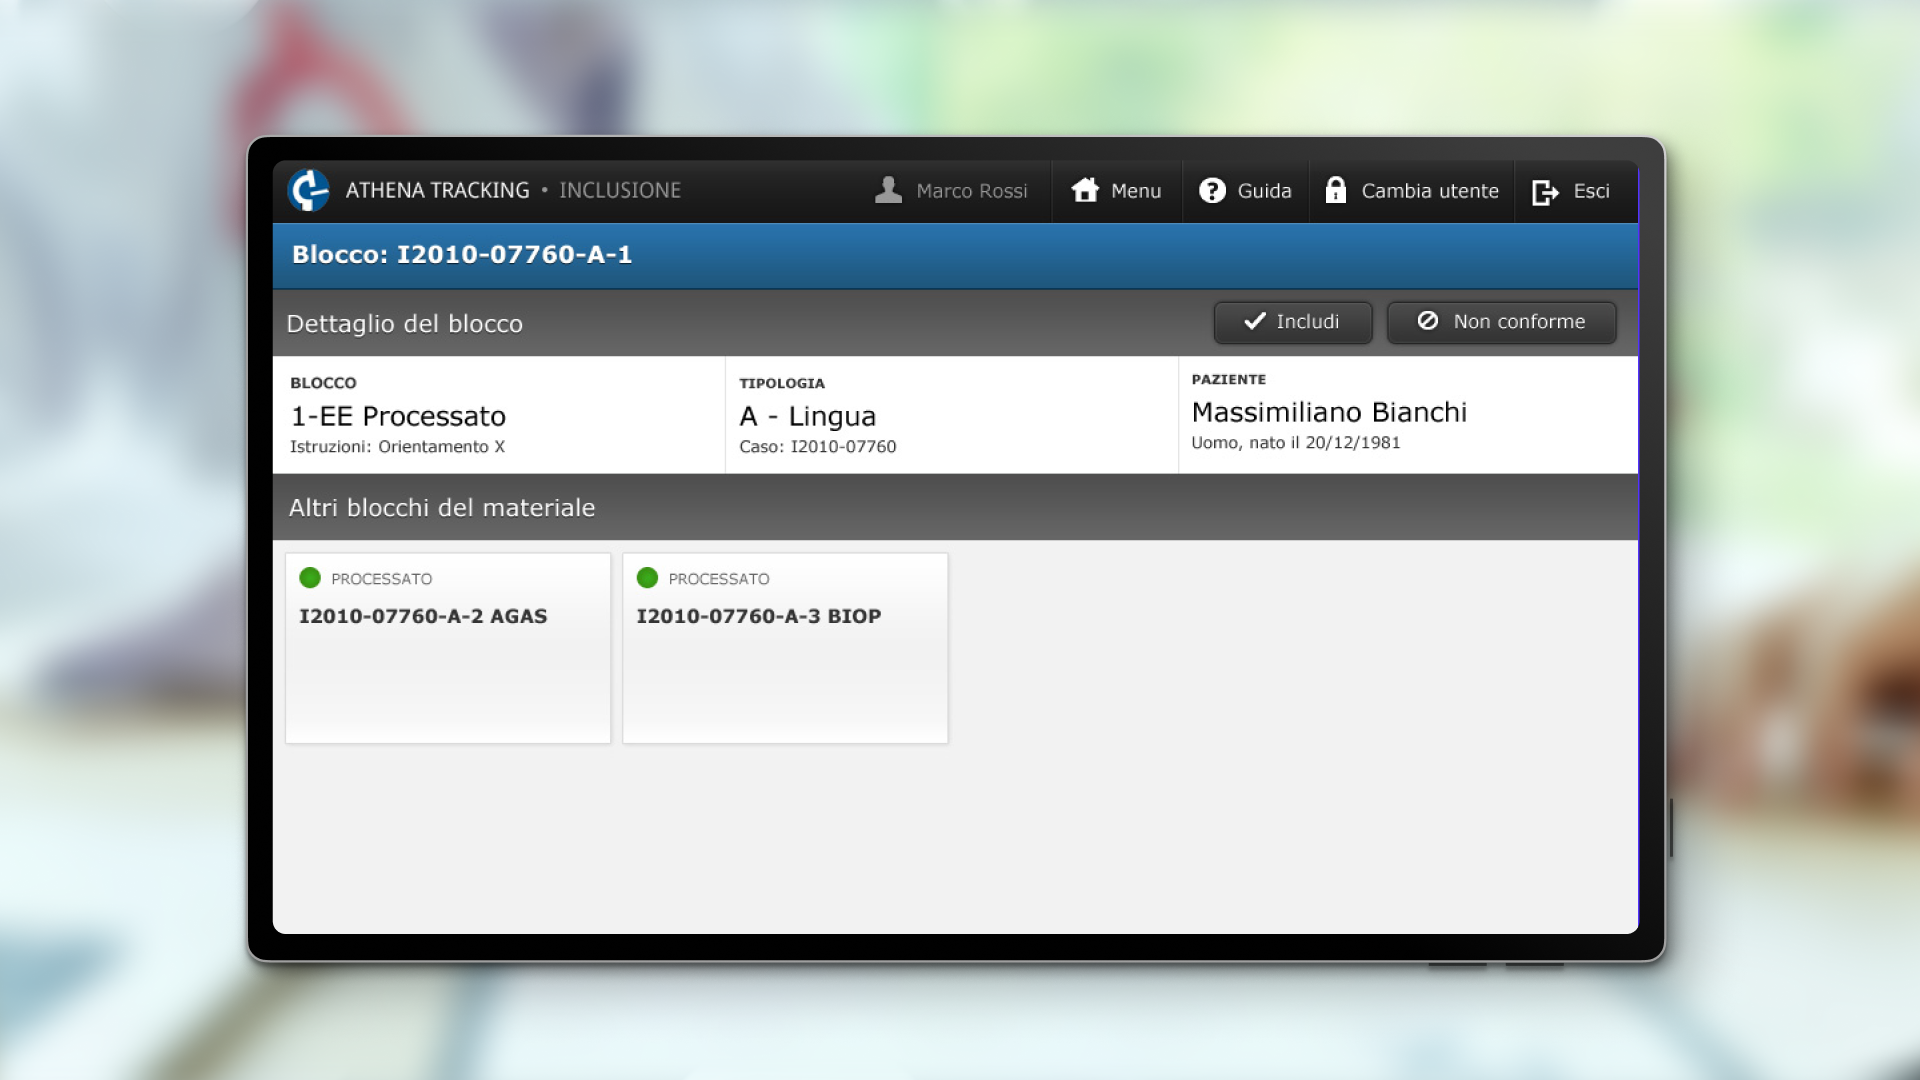
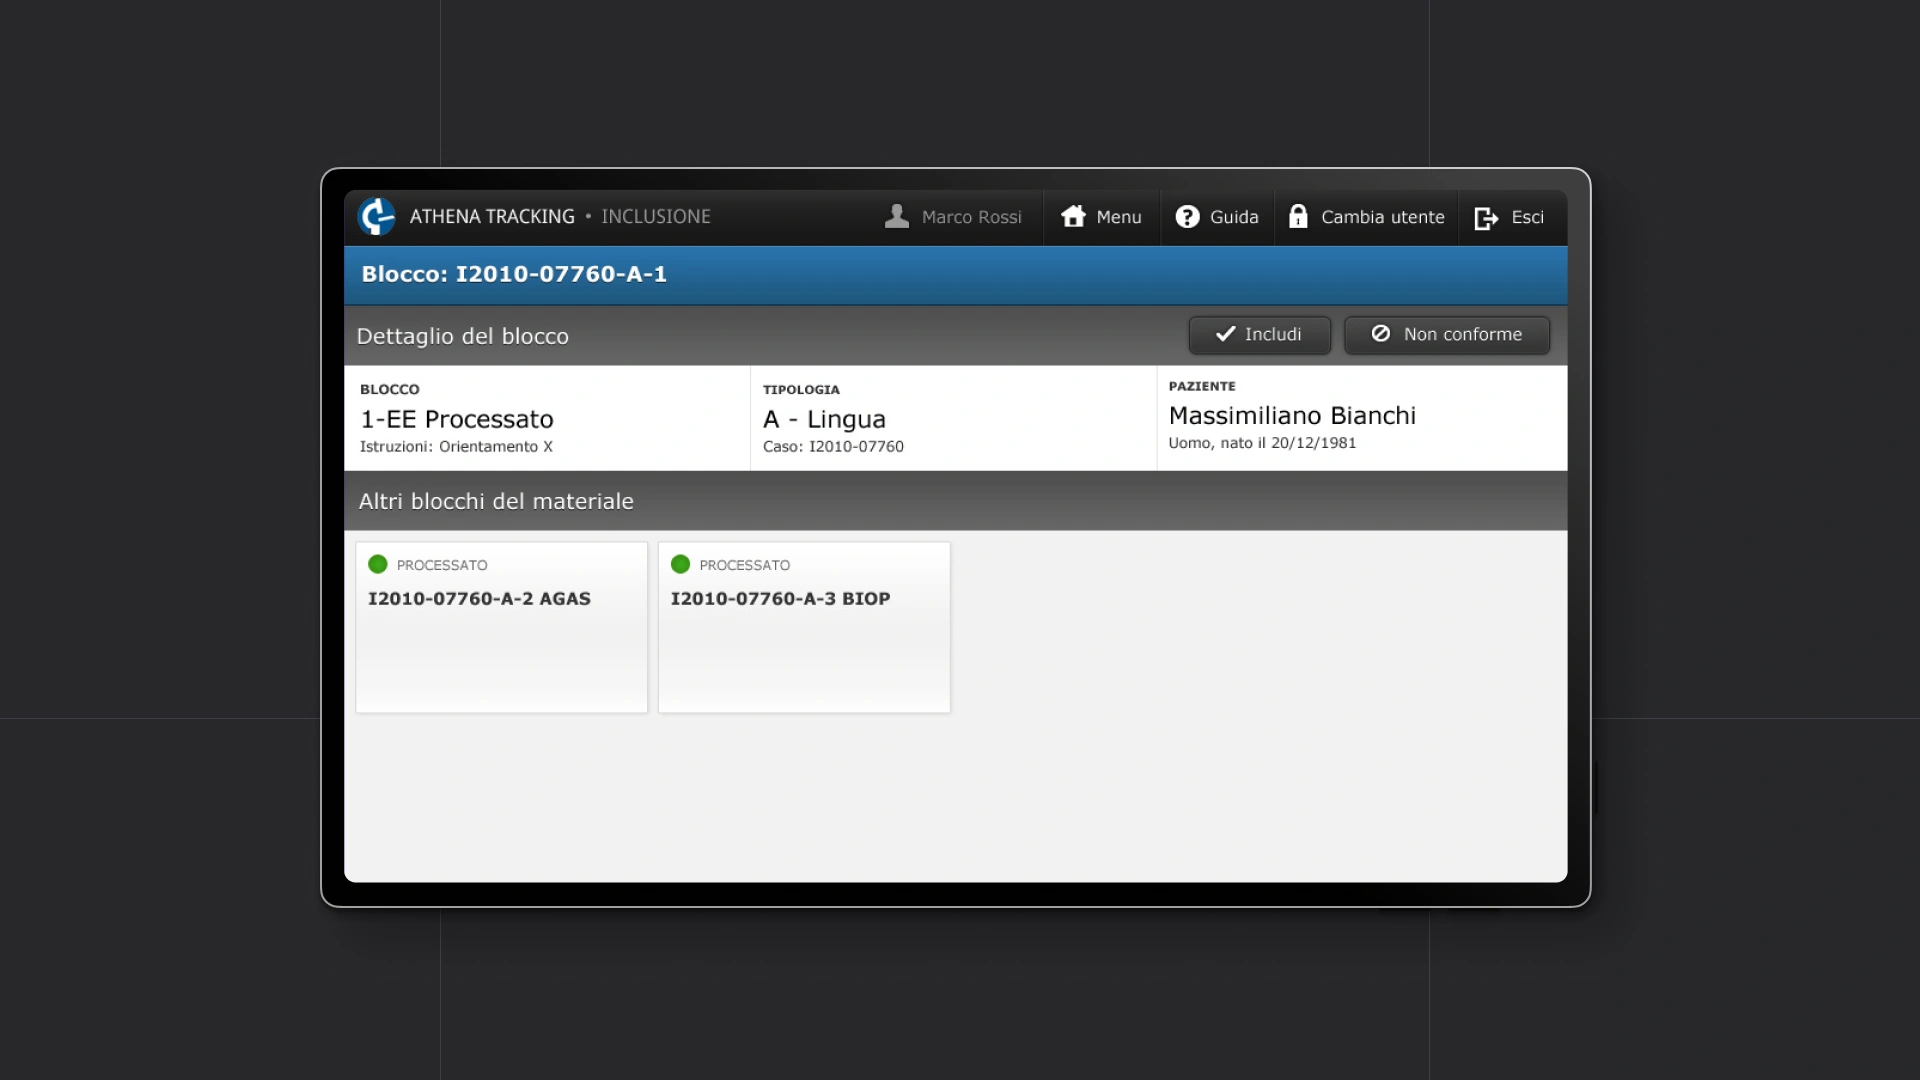
refactor: streamline footer layout and social links for improved accessibility; update featured item styles and remove redundant author entry in config

diff --git a/css/tw-compiled.css b/css/tw-compiled.css
@@ -44,9 +44,7 @@
     --leading-normal: 1.5;
     --leading-relaxed: 1.625;
     --radius-xs: 0.125rem;
-    --radius-lg: var(--radius);
     --radius-xl: 0.75rem;
-    --radius-2xl: 1rem;
     --ease-out: cubic-bezier(0, 0, 0.2, 1);
     --ease-in-out: cubic-bezier(0.4, 0, 0.2, 1);
     --default-transition-duration: 150ms;
@@ -1106,9 +1104,6 @@
   .gap-1 {
     gap: var(--spacing);
   }
-  .gap-1\.5 {
-    gap: calc(var(--spacing) * 1.5);
-  }
   .gap-2 {
     gap: calc(var(--spacing) * 2);
   }
@@ -1143,9 +1138,6 @@
   }
   .rounded {
     border-radius: var(--radius);
-  }
-  .rounded-2xl {
-    border-radius: var(--radius-2xl);
   }
   .rounded-full {
     border-radius: calc(infinity * 1px);
@@ -1630,16 +1622,6 @@
       grid-column: span 7 / span 7;
     }
   }
-  .md\:w-1\/3 {
-    @media (width >= 48rem) {
-      width: calc(1 / 3 * 100%);
-    }
-  }
-  .md\:w-1\/4 {
-    @media (width >= 48rem) {
-      width: calc(1 / 4 * 100%);
-    }
-  }
   .md\:grid-cols-12 {
     @media (width >= 48rem) {
       grid-template-columns: repeat(12, minmax(0, 1fr));
@@ -1648,16 +1630,6 @@
   .md\:flex-row {
     @media (width >= 48rem) {
       flex-direction: row;
-    }
-  }
-  .md\:flex-wrap {
-    @media (width >= 48rem) {
-      flex-wrap: wrap;
-    }
-  }
-  .md\:items-center {
-    @media (width >= 48rem) {
-      align-items: center;
     }
   }
   .lg\:col-span-1 {
@@ -2097,10 +2069,10 @@
 }
 @layer components {
   .justified-gallery {
-    --row-height: 20rem;
+    --row-height: 22rem;
     display: flex;
     flex-direction: column;
-    gap: 1.5rem;
+    gap: 8px;
   }
   .justified-gallery > .justified-item {
     display: block;

diff --git a/_includes/footer.html b/_includes/footer.html
@@ -1,6 +1,6 @@
 <footer class="lg:ml-48 px-6 lg:px-10 pb-10 mt-8">
   <div class="hairline pt-8">
-    <div class="flex sm:flex-row flex-col-reverse justify-between gap-6">
+    <div class="flex sm:flex-row flex-col-reverse justify-between gap-10">
       <div class="flex flex-col gap-2">
         <p class="text-sm text-muted leading-relaxed max-w-md mb-8">
           <span class="text-muted-foreground">Designed and built by {{ site.author.name }}</span>. <br>
@@ -10,12 +10,12 @@
       </div>
       <div class="flex flex-col gap-2 sm:text-right">
         <span class="meta-tag">Connect with me</span>
-        <div class="flex flex-col gap-1">
-          <a href="mailto:{{ site.email }}" class="text-sm text-muted-foreground hover:text-foreground transition-colors">
-            {{ site.author.email }}
+        <div class="flex gap-4">
+          <a href="mailto:{{ site.author.email }}" class="text-sm text-muted-foreground hover:text-foreground transition-colors underline underline-offset-2">
+            Mail
           </a>
           {% for social in site.author.social %}
-          <a href="{{ social.url }}" target="_blank" rel="noopener noreferrer" class="text-sm text-muted-foreground hover:text-foreground transition-colors">{{ social.name }}</a>
+          <a href="{{ social.url }}" target="_blank" rel="noopener noreferrer" class="text-sm text-muted-foreground hover:text-foreground transition-colors underline underline-offset-2">{{ social.name }}</a>
           {% endfor %}
         </div>
       </div>

diff --git a/_includes/featured.html b/_includes/featured.html
@@ -1,5 +1,5 @@
 <a href="{{ item.url | relative_url }}" target="_blank" rel="noopener noreferrer"
-  class="justified-item group animate-in rounded-2xl overflow-hidden"
+  class="justified-item group animate-in overflow-hidden"
   style="--ar: {{ item.ar | default: 1.5 }}; transition-delay: {{ forloop.index | times: 120 }}ms;">
   <img src="{{ item.image | relative_url }}" alt="{{ item.title }}"
     class="w-full transition-transform duration-300 ease-out group-hover:scale-105">

diff --git a/css/tw.css b/css/tw.css
@@ -148,10 +148,10 @@
    * and everything scales proportionally with the viewport.
    */
   .justified-gallery {
-    --row-height: 20rem; /* base row height; final height adapts per row */
+    --row-height: 22rem; /* base row height; final height adapts per row */
     display: flex;
     flex-direction: column;
-    gap: 1.5rem;
+    gap: 8px;
   }
 
   .justified-gallery > .justified-item {

diff --git a/_work/ferrari/index.md b/_work/ferrari/index.md
@@ -1,0 +1,63 @@
+---
+layout: work
+title: One Login, Six Ferrari Worlds — Designing Network-Wide SSO
+cover: "/img/work/ferrari/ferrari-sso-cover.webp"
+tag: UX Design
+order: [set based on desired position]
+overview: A unified single sign-on experience connecting Ferrari's fan-facing digital properties, from Scuderia Ferrari to the online store.
+role: UX Designer (external consultant, via Spindox)
+org: Spindox — Ferrari's digital technology partner
+period: 2013
+context: Ferrari's digital presence was split across independent properties — Formula 1, GT & Sport Car, Ferrari Store, Ferrari Magazine, the Museo, and the Fan Zone — each historically running its own registration system. A fan who wanted to vote in a poll on one property and buy merchandise on another had to create two separate accounts. I joined as an external UX consultant, working through Spindox, Ferrari's technology partner, to design a single account model that would work across the whole network.
+challenge: The registration flow had to serve two audiences at once. Marketing needed granular consent and newsletter segmentation by content vertical (GT & Sport Car, Formula 1, Store), and legal required explicit terms acceptance — both of which add friction. Casual fans, meanwhile, expected a low-effort way in. The challenge was designing an entry point that satisfied compliance and segmentation needs without making the traditional path feel like a wall, while giving fans who just wanted quick access a genuinely fast alternative.
+activities:
+  - label: Designed a unified Accedi / Registrati entry point surfaced in the header across every property in the network
+  - label: Designed two parallel onboarding paths — Facebook OAuth for low-friction entry, and a traditional username/email path for fans who preferred not to connect a social account
+  - label: Structured the extended registration form to sequence legal consent, newsletter segmentation, and a lightweight anti-bot check without overwhelming a single screen
+  - label: Produced annotated low-fidelity wireframes and interaction specs for the engineering team to build against
+outcomes:
+  - number: 6
+    label: Ferrari digital properties unified under a single account model
+  - number: 2
+    label: Parallel entry paths designed to match fan intent — social login and traditional signup
+tools:
+  - Balsamiq
+  - Facebook Login (OAuth)
+  - Annotated wireframe specs
+gallery:
+  - /img/work/ferrari/ferrari-sso-1.jpg
+  - /img/work/ferrari/ferrari-sso-2.jpg
+permalink: /work/ferrari/
+---
+
+## One account, six digital worlds
+
+Before this project, "Ferrari.com" wasn't really one thing — it was a federation of properties (Formula 1, GT & Sport Car, Corse Clienti, Ferrari Store, Ferrari Magazine, the Museo) each with its own login. The brief was simple to state and hard to execute: one identity, usable everywhere, surfaced consistently from the same header regardless of which part of the network a fan landed on first.
+
+<figure>
+  <img src="/img/work/ferrari-sso/ferrari-sso-1.jpg" alt="">
+  <figcaption class="color-text-light">2013 — Early wireframe of the network header, with Accedi and Registrati treated as two distinct actions</figcaption>
+</figure>
+
+Even this first decision carried weight: **Accedi** (log in) and **Registrati** (sign up) needed distinct visual treatment, not just distinct labels, because they triggered different downstream flows and had different priority depending on where a fan encountered them — a returning member deep in the Fan Zone has different needs than a first-time visitor reading a race report.
+
+## Two paths in, one identity
+
+The core design decision was offering two ways to become a Ferrari member: connecting an existing Facebook account, or registering directly with an email and username. This wasn't just a UI pattern borrowed from elsewhere — it reflected a real split in fan behaviour. Some wanted to be in and participating (voting in polls, joining the forum, watching driver videochats) in two clicks. Others, often for privacy reasons, preferred not to link a social account at all.
+
+<figure>
+  <img src="/img/work/ferrari-sso/ferrari-sso-2.jpg" alt="">
+  <figcaption class="color-text-light">2013 — Facebook OAuth path (left) alongside the traditional registration form (right), sharing the same benefits sidebar</figcaption>
+</figure>
+
+Both paths led to the same account model, but the traditional route carried more of the compliance and marketing weight, which is where most of the design effort actually went.
+
+## The friction inside the "extra" fields
+
+The traditional signup form couldn't just be username, email, and password. It had to carry newsletter segmentation split by content vertical (GT & Sport Car, Formula 1, Ferrari Store, or all of them), explicit legal consent for terms and data processing, and a basic anti-bot check. Every one of those elements was a legitimate requirement from a different stakeholder — legal, marketing, security — and none of them were negotiable.
+
+The design problem wasn't whether to include these fields, but how to sequence and group them so the form didn't read as a wall of obligations before a fan even got to participate in anything. Grouping newsletter preferences visually apart from legal consent, and placing the security check last, kept the form scannable even though it was doing more work than a typical signup screen.
+
+## Working through a technology partner
+
+I was brought onto this project as an external consultant through Spindox, Ferrari's technology partner at the time, rather than as part of an in-house team. That meant designing with a specific handoff constraint in mind: every wireframe needed to be self-explanatory enough for an engineering team I wouldn't be sitting next to day-to-day. The annotations on each screen — explaining *why* two buttons looked different, *why* the OAuth dialog behaved a certain way — were as much a part of the deliverable as the layouts themselves.
